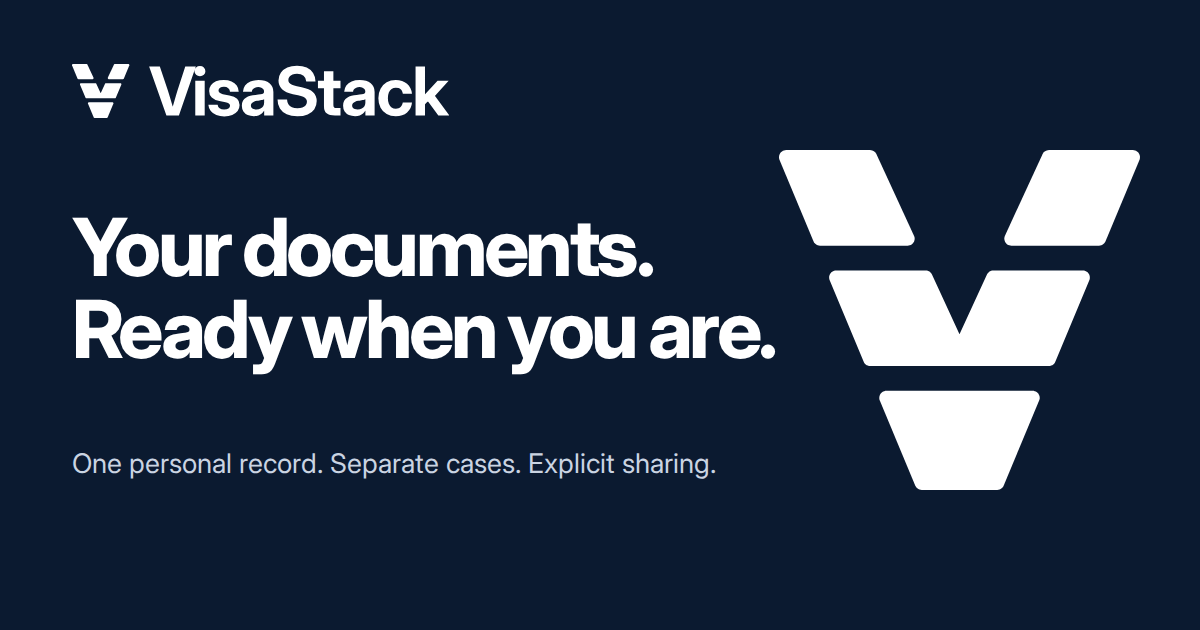
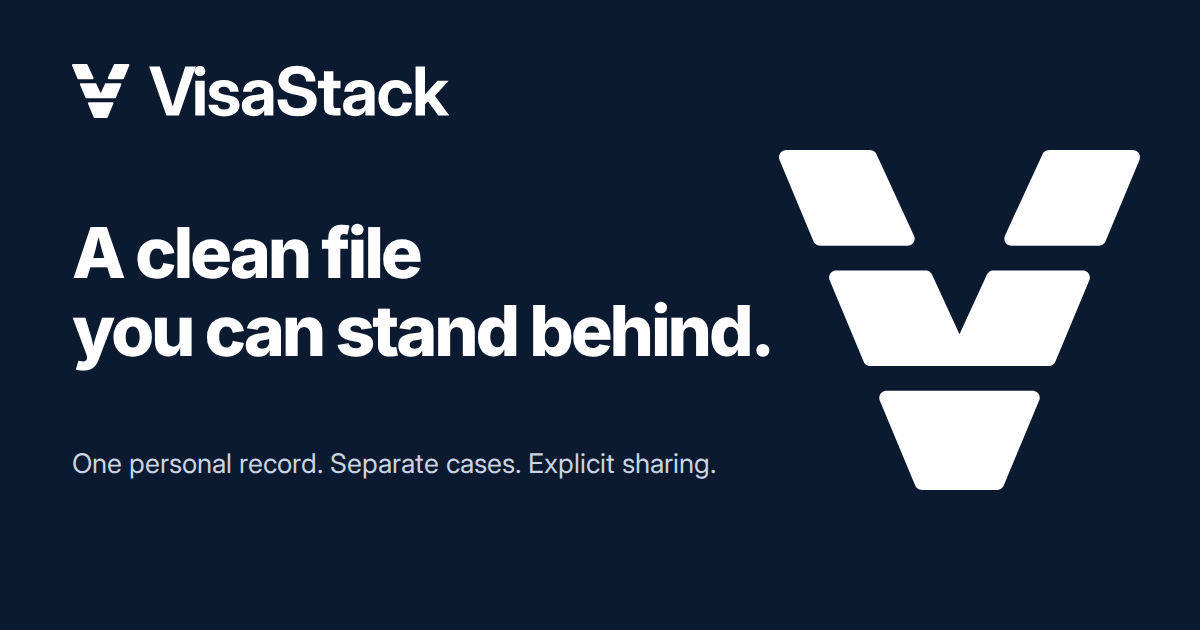
G1: homepage promise "A clean file you can stand behind."
New headline, supporting line, search and installed-app descriptions, share picture
(1200x630, redrawn with the new headline) and its text, coverage ledger rows CL15 to CL17,
and a public-text guard that never lets a page claim approval, acceptance or a guarantee.

Claude-Session: https://claude.ai/code/session_01Aq1vk5FPaHNXhL5W1nQDZx

Changed region(s): [[0.0617, 0.3317, 0.6475, 0.6032]]

diff --git a/apps/web/src/lib/plain-language.test.ts b/apps/web/src/lib/plain-language.test.ts
@@ -71,7 +71,7 @@ const visible = PUBLIC_FILES.flatMap((file) => {
 describe('the guard itself', () => {
   it('reads the public pages it is meant to check', () => {
     const text = visible.map((v) => v.text);
-    expect(text).toContain('Your documents.');
+    expect(text).toContain('A clean file');
     expect(text).toContain('What Works Today');
     expect(text.some((t) => t.startsWith('Invite-only test version'))).toBe(true);
     expect(visible.length).toBeGreaterThan(40);
@@ -128,4 +128,37 @@ describe('public pages use everyday words', () => {
       expect(hits, hits.join('\n')).toEqual([]);
     });
   }
+});
+
+/**
+ * The homepage promise is "A clean file you can stand behind." (Growth G1). It is about the
+ * person's own file, never about a decision by an embassy, an agency or any authority. Public
+ * text may say that VisaStack gives no such assurance (it must then say "never" or "not"), but
+ * it may never claim one.
+ */
+const AUTHORITY_CLAIM =
+  /\b(guarantee[sd]? (an? )?(approval|acceptance|visa|your visa|success)|(approval|acceptance|visa|success) (is )?guaranteed|visa[- ]approved|embassy[- ](approved|ready|accepted)|(approved|accepted|cleared|endorsed) by|will be (approved|accepted|granted)|approval is|sure to be (approved|accepted))\b/i;
+const DISCLAIMS = /\b(never|not|no|without)\b/i;
+const claimsAuthority = (text: string): boolean =>
+  AUTHORITY_CLAIM.test(text) && !DISCLAIMS.test(text);
+
+describe('public pages never claim a decision by an authority', () => {
+  it('catches a claim and lets an honest disclaimer through', () => {
+    expect(claimsAuthority('Accepted by the embassy')).toBe(true);
+    expect(claimsAuthority('Approval guaranteed')).toBe(true);
+    expect(claimsAuthority('We guarantee your visa')).toBe(true);
+    expect(claimsAuthority('Beware of a guaranteed fast-track')).toBe(false);
+    expect(claimsAuthority('Embassy-approved documents')).toBe(true);
+    expect(claimsAuthority('Your file will be approved')).toBe(true);
+    expect(claimsAuthority('Cleared by the embassy')).toBe(true);
+    expect(claimsAuthority('Never an approval guarantee')).toBe(false);
+    expect(claimsAuthority('A clean file you can stand behind.')).toBe(false);
+  });
+
+  it('has no visible text that promises approval, acceptance or a guarantee', () => {
+    const hits = visible
+      .filter((v) => claimsAuthority(v.text))
+      .map((v) => `${relative(WEB_SRC, v.file)}:${v.line}: ${JSON.stringify(v.text)}`);
+    expect(hits, hits.join('\n')).toEqual([]);
+  });
 });

diff --git a/apps/web/src/app/page.tsx b/apps/web/src/app/page.tsx
@@ -16,8 +16,11 @@ import './landing-c1.css';
  * Each statement on this page maps to a claim row in docs/upgrades/programme/COVERAGE-LEDGER.csv.
  */
 
-const HERO_HEADLINE_FIRST = 'Your documents.';
-const HERO_HEADLINE_SECOND = 'Ready when you are.';
+// The promise (owner decision, 27 Oct 2026, Growth G1): "A clean file you can stand behind."
+// It is about the person's own file being complete, current and tidy. It never says or implies
+// that any authority has approved, accepted or guaranteed anything.
+const HERO_HEADLINE_FIRST = 'A clean file';
+const HERO_HEADLINE_SECOND = 'you can stand behind.';
 
 interface PhoneFile {
   readonly name: string;
@@ -203,13 +206,12 @@ export default async function HomePage({ searchParams }: HomePageProps) {
         ) : null}
         <p className="c1-nudge">{betaOpen ? 'Free Public Beta' : 'Invite-Only Pilot'}</p>
         <h1 className="c1-headline" id="land-hero-title">
-          {HERO_HEADLINE_FIRST}
-          <br />
+          {HERO_HEADLINE_FIRST} <br />
           {HERO_HEADLINE_SECOND}
         </h1>
         <p className="c1-subline">
-          Keep a reusable travel record, prepare your next application and share only what you
-          choose.
+          One private file for your passport and papers. See what is missing, keep every version,
+          and share only the part someone needs.
         </p>
         <div className="c1-cta">
           <a className="c1-pill" href={startHref}>

diff --git a/apps/web/src/app/page.test.tsx b/apps/web/src/app/page.test.tsx
@@ -29,11 +29,13 @@ describe('the public home page (Harbor C1, WP-L1)', () => {
 
   it('says what the product is for in everyday words', async () => {
     const text = textOf(await render());
-    expect(text).toContain('Your documents.');
-    expect(text).toContain('Ready when you are.');
+    // CL15: the owner's promise, in full, as one sentence for a reader or a screen reader.
+    expect(text).toContain('A clean file you can stand behind.');
+    expect(text).not.toContain('Your documents. Ready when you are.');
     expect(text).toContain('Invite-Only Pilot');
+    // CL16: the supporting line says what the file is made of, and who sees which part.
     expect(text).toContain(
-      'Keep a reusable travel record, prepare your next application and share only what you choose.',
+      'One private file for your passport and papers. See what is missing, keep every version, and share only the part someone needs.',
     );
     expect(text).toContain('One personal record. Separate cases. Explicit sharing.');
     for (const title of [
@@ -148,7 +150,7 @@ describe('the public home page (Harbor C1, WP-L1)', () => {
   it('tells the story in order, from the product to the closing call to action', async () => {
     const html = await render();
     const order = [
-      'Ready when you are.',
+      'you can stand behind.',
       'Less paperwork. More control.',
       'Every visa starts with the same scramble',
       'Three Simple Steps',

diff --git a/apps/web/src/app/layout.tsx b/apps/web/src/app/layout.tsx
@@ -38,7 +38,7 @@ export const metadata: Metadata = {
   // Every page names itself (WCAG 2.4.2): the page's own title, then the product.
   title: { default: 'VisaStack - one profile, every visa', template: '%s | VisaStack' },
   description:
-    'Keep your passport, documents and visa details in one private profile and reuse them for every application. Review changes and control what you share.',
+    'A clean file you can stand behind. Keep your passport and documents in one private profile, see what is missing and share only the part you choose.',
   applicationName: 'VisaStack',
   // Home-screen app on iPhone and iPad (the manifest covers other devices).
   appleWebApp: { capable: true, title: 'VisaStack', statusBarStyle: 'default' },

diff --git a/apps/web/e2e/ux-public.spec.ts b/apps/web/e2e/ux-public.spec.ts
@@ -91,6 +91,8 @@ test.describe('Harbor landing (WP-L1)', () => {
     await page.setViewportSize({ width: 360, height: 640 });
     await page.goto('/');
     await expect(page.locator('#land-hero-title')).toBeInViewport({ ratio: 1 });
+    // Growth G1: the owner's promise, read as one sentence.
+    await expect(page.locator('#land-hero-title')).toHaveText('A clean file you can stand behind.');
     await expect(page.locator('.c1-cta .c1-pill').first()).toBeInViewport({ ratio: 1 });
     await expect(page.locator('.c1-hero .c1-nudge')).toBeInViewport({ ratio: 1 });
     await expect(page.locator('.c1-hero .c1-nudge')).toHaveText(/public beta|pilot/i);

diff --git a/apps/web/src/app/manifest.ts b/apps/web/src/app/manifest.ts
@@ -14,7 +14,7 @@ export default function manifest(): MetadataRoute.Manifest {
     id: '/',
     name: 'VisaStack',
     short_name: 'VisaStack',
-    description: 'Your documents. Ready when you are.',
+    description: 'A clean file you can stand behind.',
     lang: 'en',
     dir: 'ltr',
     start_url: deepLinkPath({ kind: 'workspace' }),
